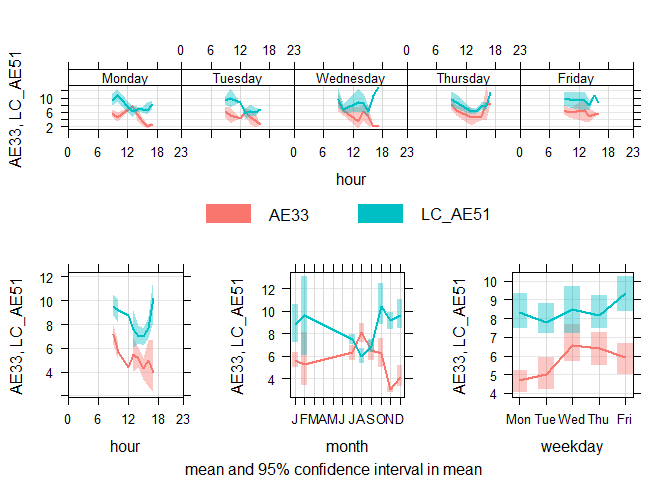
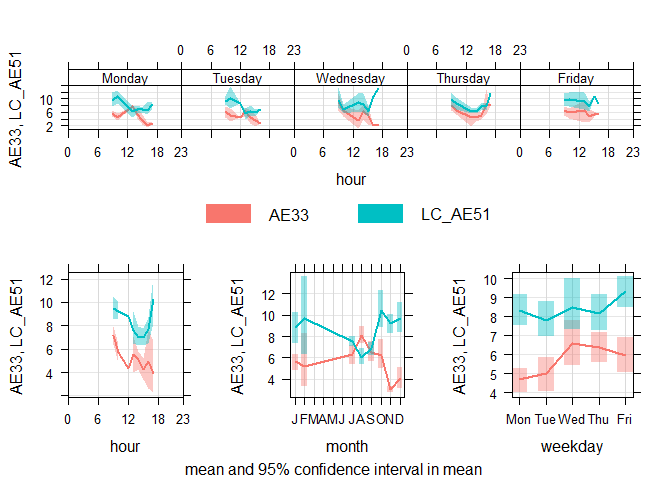
added updated Ambient BC.

diff --git a/R/BC_Ambient.md b/R/BC_Ambient.md
@@ -3,19 +3,19 @@ BC Ambient
 Adithi
 5/29/2020
 
-## Black Carbon Ambient Measurements at CSTEP and ILK Labs
+## Black Carbon (BC) Ambient Measurements at CSTEP and ILK Labs
 
-The instruments used were:
+The instruments used:
 
-  - at CSTEP : AE33
+  - at CSTEP : AE33 (24 hours)
 
-  - at ILK Labs : AE51
+  - at ILK Labs : AE51 (30 mins before and after the ride)
 
-## Days of measurement
+## Days of measurement- Start Date
 
   - AE33: 11 July 2019
 
-<!-- end list -->
+*24 hour average*
 
 ``` r
 names(Final1)<-c("date", "AE33_CSTEP")
@@ -26,7 +26,7 @@ calendarPlot(Final1, pollutant = "AE33_CSTEP")
 
   - AE51: 14 May 2019
 
-<!-- end list -->
+*Average of ambient hour.*
 
 ``` r
 names(data_final_BC1)<-c("date", "LC_AE51_ILK")
@@ -36,6 +36,16 @@ calendarPlot(data_final_BC1, pollutant = "LC_AE51_ILK")
 ![](BC_Ambient_files/figure-gfm/unnamed-chunk-3-1.png)<!-- -->
 
 ## Correlation plot
+
+From here on, the data for both AE33 and AE51 were filtered where both
+the data were present ie: starting from July 11 2019 to 19 February
+2020. The hours of AE51 were matched with corresponding hours of AE33.
+
+  - LC\_AE51\_ILK: Loading corrected AE51 measurements of BC
+
+  - AE33\_CSTEP: AE33 measurements of BC
+
+<!-- end list -->
 
 ``` r
 t<- Correlation(BC$AE33_CSTEP, BC$LC_AE51_ILK, BC, lm, 5, 25, 30, "LC_AE51_ILK", "AE33_CSTEP")
@@ -64,13 +74,6 @@ t.test(BC$LC_AE51_ILK,BC$AE33_CSTEP )
 
 ## Box Plot
 
-  - LC\_AE51\_ILK: Loading corrected AE51 measurements of Black Carbon
-    placed at ILK Labs for everyday 30 mins before and after the rides.
-
-  - AE33\_CSTEP: AE33 measurements of Balck Carbon placed at CSTEP
-
-<!-- end list -->
-
 ``` r
 BC_melt<-reshape2::melt(BC, id="hour", measure.vars = c( "LC_AE51_ILK",  "AE33_CSTEP") )
 names(BC_melt)<-c("hour","Instrument", "BC")
@@ -90,9 +93,55 @@ p1
 
 ## Time Variations
 
+  - LC\_AE51: Loading corrected AE51 measurements of BC
+
+  - AE33: AE33 measurements of BC
+
+<!-- end list -->
+
+1.  For the weekday and hours
+
+<!-- end list -->
+
 ``` r
 names(BC)<-c("date", "LC_AE51", "AE33")
-timeVariation(BC, pollutant=c("AE33", "LC_AE51"))
+BC_timeVari<-timeVariation(BC, pollutant=c("AE33", "LC_AE51"))
 ```
 
 ![](BC_Ambient_files/figure-gfm/unnamed-chunk-7-1.png)<!-- -->
+
+``` r
+plot(BC_timeVari, subset = "day.hour") 
+```
+
+![](BC_Ambient_files/figure-gfm/unnamed-chunk-7-2.png)<!-- -->
+
+2.  For the diurnal plot
+
+<!-- end list -->
+
+``` r
+plot(BC_timeVari, subset="hour") 
+```
+
+![](BC_Ambient_files/figure-gfm/unnamed-chunk-8-1.png)<!-- -->
+
+3.  For the weekday plot
+
+<!-- end list -->
+
+``` r
+plot(BC_timeVari, subset="day") 
+```
+
+![](BC_Ambient_files/figure-gfm/unnamed-chunk-9-1.png)<!-- -->
+
+4.  For the monthly plot
+
+<!-- end list -->
+
+``` r
+plot(BC_timeVari, subset="month") 
+```
+
+![](BC_Ambient_files/figure-gfm/unnamed-chunk-10-1.png)<!-- -->

diff --git a/README.md b/README.md
@@ -25,7 +25,7 @@ eg: Karnataka->Bengaluru->Bapuji Nagar
 
 ### CPCB data cleaning process
 
-1.	Uses one-hour datasets, xlsx format.
+1.	Uses one-hour datasets (xlsx format, no restriction on number of parameters downloaded).
 2.	Arranges all the one-hour data without any gaps, missing values impute with 'NaN'
 3.	Deletes all negatives
 4.	For PM<sub>2.5</sub>  and PM<sub>10</sub>  - deletes values greater than or equal to 985
